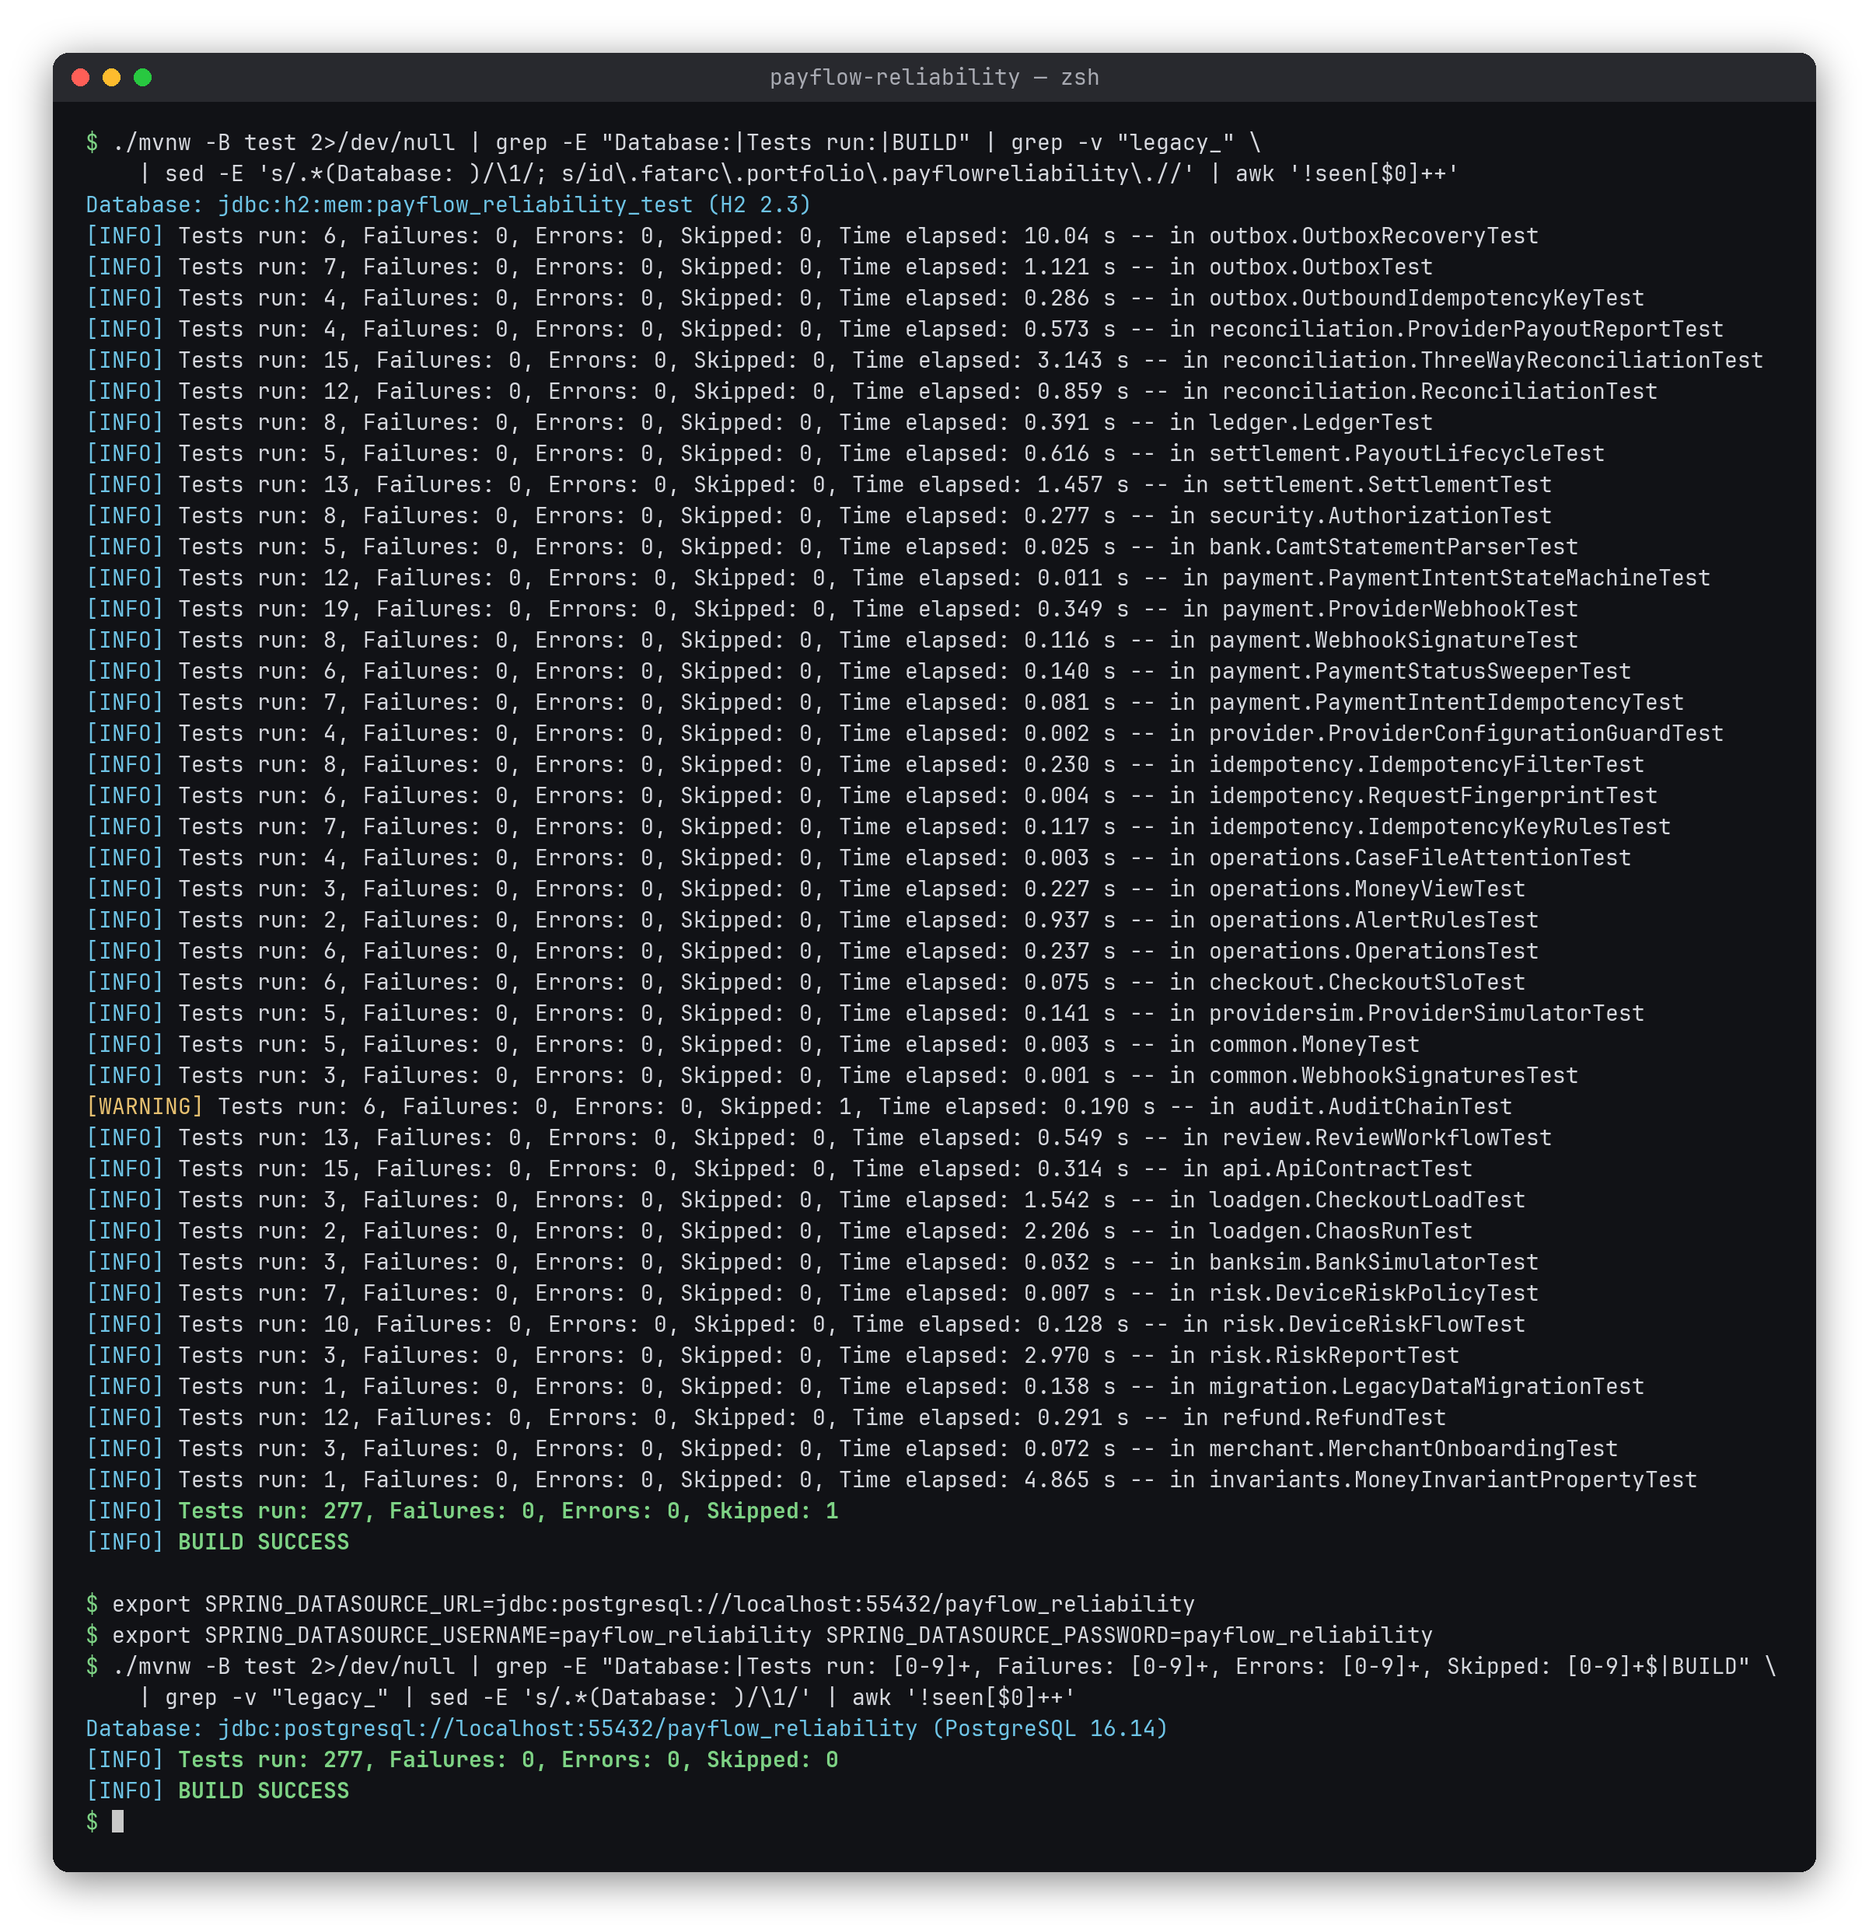
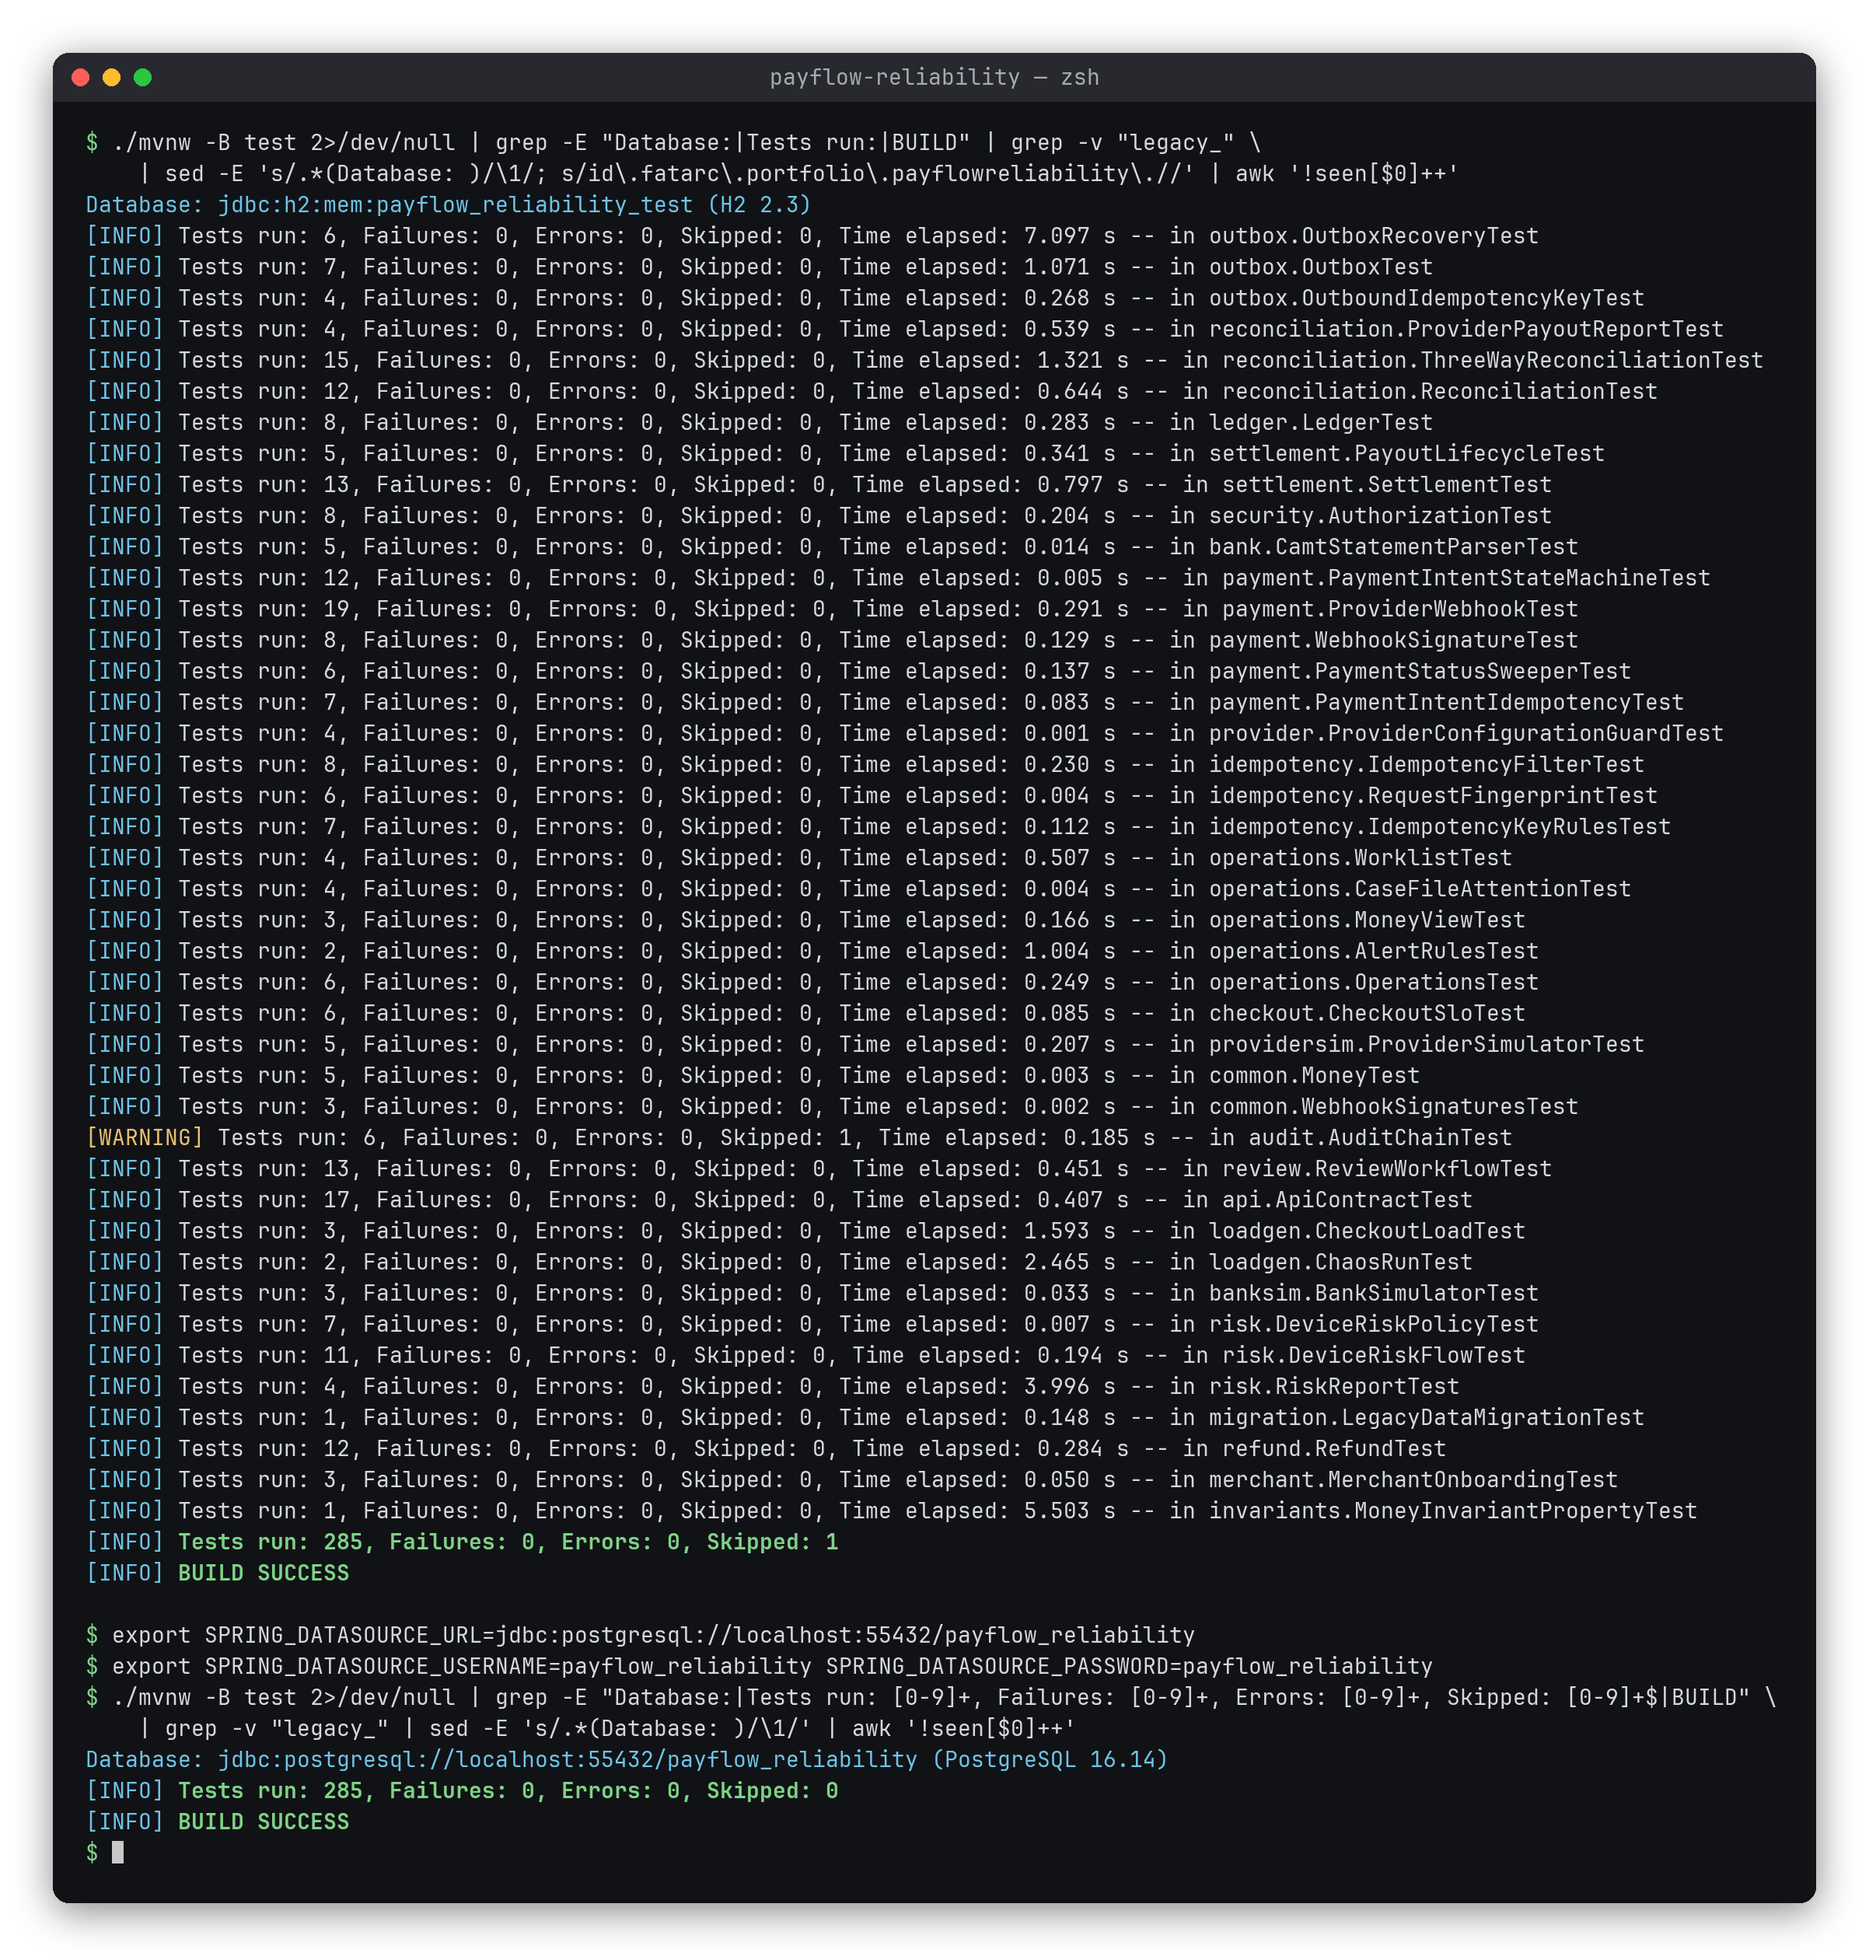
docs(readme): document the worklist, bounded lists and reference lookup
The README lists the worklist among what operations can do, adds the new and
changed endpoints (worklist, lookup by merchant reference, limits and bank
line filters), ADR 029 in the design choices, the new test areas and the test
count, now 285 on H2 and on PostgreSQL; the test screenshot is re-rendered
from that run. The interview guide answers how an operator knows what to do
next.

Changed region(s): [[0.0312, 0.0622, 0.9359, 0.933], [0.8735, 0.8397, 0.9047, 0.8708]]

diff --git a/README.md b/README.md
@@ -78,6 +78,8 @@ the bank statement, with the evidence at each stage, and shows slowness and devi
 - a seeded chaos run plays the same kinds of faults against the packaged app in CI
 
 **Operations can see and act**
+- one worklist of everything waiting for a person, most urgent first, with owners, due times that match the alerts,
+  the next step, the calls that resolve each item, and a suggested payout for credits nobody could match
 - one view of money at risk (past the SLO, abandoned, held, in breaks by age, awaiting a step-up, blocked today)
 - a case file per payment and an operations summary
 - Prometheus gauges for what needs people, alert rules with a runbook, dead man's switches for the checks
@@ -305,7 +307,7 @@ The same suite runs against PostgreSQL by pointing Spring at it (CI does both):
 SPRING_DATASOURCE_URL=jdbc:postgresql://localhost:5432/payflow_reliability SPRING_DATASOURCE_USERNAME=payflow_reliability SPRING_DATASOURCE_PASSWORD=payflow_reliability ./mvnw test
 ```
 
-277 tests in 41 classes, one of them a property-based test that runs 50 random histories of faults. They are
+285 tests in 42 classes, one of them a property-based test that runs 50 random histories of faults. They are
 **not** wrapped in a test-managed transaction: every service call commits or rolls back exactly as in production,
 and the provider and bank simulators and the webhooks run over the server's real HTTP port. Background jobs are
 off in tests and each test runs them explicitly against a movable clock, so retries, leases, replay windows,
@@ -327,9 +329,9 @@ value-date windows and expiry are tested without sleeping.
 | Money rules | eleven rules checked after 50 random histories of faults per run, with coverage checks on what the histories reached; each rule shown catching a planted violation; a seeded chaos run against the live API |
 | Review | allowed actions, release / fail / reverse, two-person approval, proposals rejected, two operators racing |
 | Ledger and audit | every journal balanced, balances per merchant, invariant violations detected, hash chain tamper detection, append-only triggers (PostgreSQL) |
-| Operations | case file, summary, sweep endpoint, alerting gauges, every alert rule references an exported metric and has a runbook |
+| Operations | case file, summary, sweep endpoint, alerting gauges, every alert rule references an exported metric and has a runbook, the worklist (one queue across review cases, proposals and breaks, due order, owners, the suggested payout for an unmatched credit, and calls that are followed to prove they resolve the item) |
 | Migration | a database at the previous version with legacy rows upgrades consistently (both databases) |
-| API contract | status codes, `Location`, `Idempotent-Replayed`, `X-Request-Id`, error codes, currency precision |
+| API contract | status codes, `Location`, `Idempotent-Replayed`, `X-Request-Id`, error codes, currency precision, bounded and filtered lists, no persistence internals in responses, finding a payment by merchant reference after losing its key |
 
 **The tests were checked by mutation.** Each of these deliberate breakages makes the suite fail: skipping the
 webhook signature check, removing the replay window, letting a proposer approve their own decision, ignoring
@@ -416,7 +418,7 @@ PostgreSQL), so every one can be reproduced.
 | Net settlement | Four racing runs, one batch; captures minus refunds; a held payment waits | `./scripts/scenarios.sh settlement` |
 | Reconciliation | A verdict per row, a payout missing from the report; the clean match reconciles only once the bank confirms | `./scripts/scenarios.sh reconciliation` |
 | Audit trail | Timeline with actor and request id per step; the hash chain verifies | `./scripts/scenarios.sh audit-trail` |
-| Tests | 277 tests on H2 and on PostgreSQL | `./mvnw test` |
+| Tests | 285 tests on H2 and on PostgreSQL | `./mvnw test` |
 | Provider timeout | The provider refunds, then times out; the customer is refunded exactly once | `./scripts/scenarios.sh provider-outage` |
 | Lost webhook | The sweeper recovers the capture from the provider | `./scripts/scenarios.sh lost-webhook` |
 | Two operators | Chargeback after payout: proposal, self-approval refused, approval, reversal booked | `./scripts/scenarios.sh four-eyes` |
@@ -548,6 +550,7 @@ check their own keys). **M** = merchant key (own payments only), **O** = operato
 | POST | `/api/payment-intents/{id}/confirm` | M | Body `{method}`: the step-up confirmation the shop verified (`STEP_UP_KEY` or `TAP`, as required); **422** `CONFIRMATION_METHOD_MISMATCH`. Repeating it is a no-op |
 | POST | `/api/payment-intents/{id}/cancel` | M, O | Body `{reason}` (for example `ABANDONED`), only before the customer paid. Repeating it is a no-op |
 | GET | `/api/payment-intents/{id}` | M, O | Another merchant's payment is **404** |
+| GET | `/api/payment-intents?merchantReference=` | M, O | Your payments for one of your references, newest first (at most 50): how to find a payment after losing its idempotency key. Operators also pass `merchantId` |
 | GET | `/api/payment-intents/{id}/case-file` | O | Attention summary, settlement certainty per stage, device-risk decision, provider transactions, events (webhook or poll), provider calls, refunds, settlement items, ledger journals, review cases, audit chain verification, timeline |
 
 ### Provider webhook
@@ -569,7 +572,7 @@ check their own keys). **M** = merchant key (own payments only), **O** = operato
 
 | Method | Path | Who | Notes |
 |---|---|---|---|
-| GET | `/api/outbox?status=` | O | `PENDING`, `SUCCEEDED`, `FAILED`, `NEEDS_REVIEW`, `CANCELLED`, with attempts and last error |
+| GET | `/api/outbox?status=&limit=` | O | `PENDING`, `SUCCEEDED`, `FAILED`, `NEEDS_REVIEW`, `CANCELLED`, with attempts and last error |
 | GET | `/api/outbox/{id}` | O | |
 | POST | `/api/outbox/{id}/retry` | O | Requeue a call with an unknown outcome (safe: same idempotency key) |
 | POST | `/api/outbox/run` | O | Run the worker now |
@@ -579,7 +582,7 @@ check their own keys). **M** = merchant key (own payments only), **O** = operato
 | Method | Path | Who | Notes |
 |---|---|---|---|
 | POST | `/api/settlements/batches?merchantId=&currency=` | O | **201** with captures, deductions and net. `currency` only if several are payable (**422** lists them). **409** `NOTHING_TO_SETTLE`, also when the net is not positive (it carries forward) |
-| GET | `/api/settlements/batches?merchantId=` | O | Newest first |
+| GET | `/api/settlements/batches?merchantId=&limit=` | O | Newest first |
 | GET | `/api/settlements/batches/{batchId}/items` | O | Signed items: `CAPTURE`, `REFUND`, `REVERSAL` |
 | GET | `/api/settlements/backlog` | O | What the next batches would pay, per merchant and currency |
 | GET | `/api/ledger/balances?merchantId=&currency=` | O | Account balances and what is owed to each merchant |
@@ -593,7 +596,8 @@ check their own keys). **M** = merchant key (own payments only), **O** = operato
 |---|---|---|---|
 | POST | `/api/bank/statements` | O | One camt.053 file (`application/xml`). **200** `IMPORTED` or `ALREADY_IMPORTED`; **409** `CONFLICT` (same id or number, other content; a break is opened); **422** `BANK_STATEMENT_INVALID` |
 | POST | `/api/bank/statements/pull` | O | Download and import every statement the bank has that is not complete here yet (also runs every minute) |
-| GET | `/api/bank/statements`, `/api/bank/lines?status=` | O | Imported statements (number, date, balances, entries); lines with their match status (`MATCHED`, `SUSPENSE`, `RETURN`, `CLEARED`) |
+| GET | `/api/bank/statements?limit=` | O | Imported statements (number, date, balances, entries), newest first |
+| GET | `/api/bank/lines?endToEndId=&statementId=&status=&limit=` | O | Bank lines carrying one payout reference, of one statement, or with one match status (`MATCHED`, `SUSPENSE`, `RETURN`, `CLEARED`) |
 | POST | `/api/reconciliation/three-way/run` | O | Match suspense lines, declare missing credits, reconcile payments (also runs every 5 minutes) |
 | GET | `/api/reconciliation/three-way/batches/{batchId}` | O | One payout seen three ways: ledger, provider, bank lines, every check, its breaks |
 | GET | `/api/reconciliation/breaks?status=&category=&batchId=` | O | Breaks with owner, amount, suspense, age, due time, overdue and allowed actions |
@@ -626,13 +630,15 @@ check their own keys). **M** = merchant key (own payments only), **O** = operato
 | GET | `/api/audit-events?paymentIntentId=` or `?aggregateType=&aggregateId=` | O | |
 | GET | `/api/audit-events/verify?paymentIntentId=` or `?chainKey=` | O | Recomputes the hash chain; reports the first broken event |
 | GET | `/api/operations/summary` | O | Payments per state, stuck payments, review queue (unresolved, awaiting approval, by reason, oldest), refunds, provider calls, settlement backlog, last ledger check, money at risk |
+| GET | `/api/operations/worklist?owner=&limit=` | O | Everything waiting for a person, most urgent first: owner, money, due time, next step, the calls that resolve it and the evidence; for an unmatched credit, the payout it most likely belongs to ([ADR 029](docs/adr/029-one-worklist-for-people.md)) |
 | GET | `/api/operations/money-at-risk?merchantId=` | O | Every kind of money at risk as counts and amounts, for everything or one merchant |
 | GET | `/api/operations/invariants` | O | Every money rule checked now, with the evidence of each violation |
 | POST | `/api/operations/sweeps/payment-status?olderThanSeconds=` | O | Ask the provider about waiting payments now |
 | GET | `/actuator/prometheus`, `/actuator/metrics` | O | `/actuator/health` (and liveness/readiness) is public |
 
 Every operator `POST` accepts an optional `Idempotency-Key`: the first response is stored for 24 hours and
-replayed with `Idempotent-Replayed: true`. The full key contract is in [docs/idempotency-keys.md](docs/idempotency-keys.md).
+replayed with `Idempotent-Replayed: true`. The bank, settlement batch, outbox and worklist lists return at most `limit`
+rows (default 100, at most 1000; anything else is **400** `VALIDATION_FAILED`). The full key contract is in [docs/idempotency-keys.md](docs/idempotency-keys.md).
 
 ### Simulations and simulators (local only)
 
@@ -723,6 +729,7 @@ show one refund.
 | Money rules as production code, tested with random histories | incidents are combinations nobody wrote a test for | [026](docs/adr/026-property-based-money-invariants.md) |
 | Slowness measured as money | "slow but up" passes every health check while customers leave | [027](docs/adr/027-slowness-as-money.md) |
 | Device risk decided on the server, measured as money | the device can lie; the server knows the amount; every threshold has a price | [028](docs/adr/028-device-risk-as-money.md) |
+| One worklist for people | one call answers "what needs me now, and how do I resolve it?", with due times that match the alerts | [029](docs/adr/029-one-worklist-for-people.md) |
 
 ---
 

diff --git a/docs/interview-defense.md b/docs/interview-defense.md
@@ -180,6 +180,16 @@ decisions) and checks every rule, and it also fails if the histories did not rea
 Nine deliberate breakages of the new protections were each caught, every one by the property test on its own. The
 same kinds of faults run live in CI as a seeded chaos scenario against the packaged app.
 
+## How does an operator know what to do next?
+
+One call: `GET /api/operations/worklist`. Review cases, proposals waiting for a second operator and reconciliation
+breaks used to live in separate queues with different shapes, and only breaks had deadlines. The worklist puts them in
+one list, most urgent first, with due times taken from the alerts that would page if the item waited longer, so the
+list and the pager agree. Each item names the owner, the money, the next step and the exact calls that resolve it; a
+test follows those calls to prove they work. For a credit nobody could match, it names the payout expecting exactly
+that amount, but it does not assign it: matching by amount alone is the mistake the bank leg exists to prevent, so a
+person confirms with the bank and the server still checks the amount. ([ADR 029](adr/029-one-worklist-for-people.md))
+
 ## What would you add for production?
 
 An identity provider instead of static operator keys, a gateway with rate limiting, chain-head anchoring
